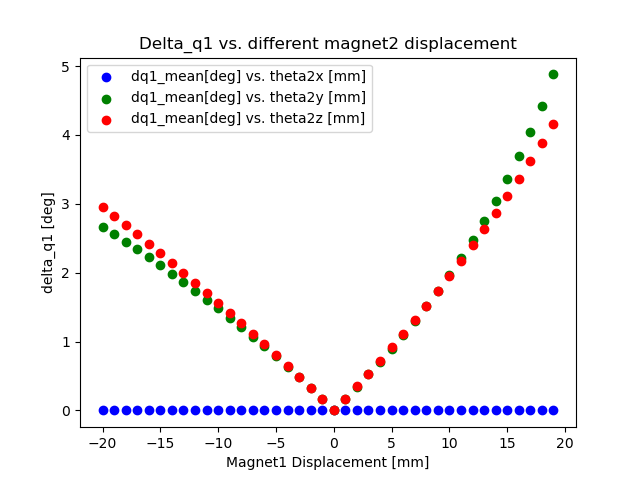
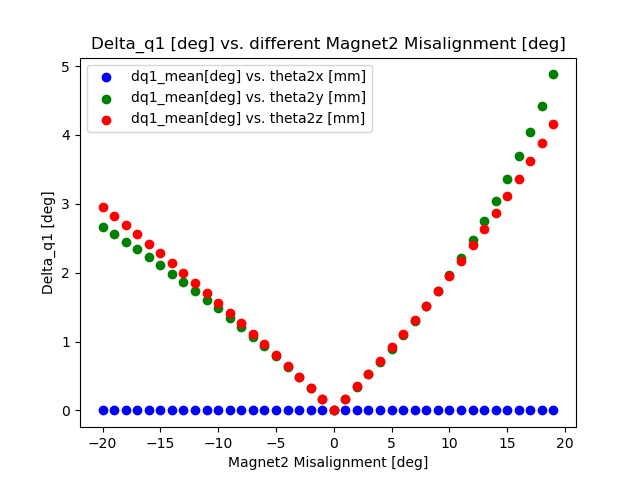
presentation images fixed

Changed region(s): [[0.125, 0.0625, 0.875, 0.125], [0.3438, 0.9375, 0.6875, 1.0], [0.0625, 0.375, 0.0938, 0.625]]

diff --git a/Magbot Simulation/data_processing/overlay.py b/Magbot Simulation/data_processing/overlay.py
@@ -5,13 +5,18 @@ import os
 
 mag1_folders = ['results_t1x', 'results_t1y', 'results_t1z']
 mag2_folders = ['results_t2x', 'results_t2y', 'results_t2z']
-png_names = ['t1_dq1_mean', 't1_dq2_mean', 't2_dq1_mean', 't2_dq2_mean']
+png_names = ['t1_dq1_max', 't1_dq2_max', 't2_dq1_max', 't2_dq2_max']
+x_labels = ['Magnet1 Misalignment [deg]', 'Magnet2 Misalignment [deg]']
+y_labels = ['Delta_q1 [deg]', 'Delta_q2 [deg]']
 colors = ['blue', 'green', 'red']
 
 root_path = '/mnt/newstorage/summer_project'
 
-cy1 = 7 #column for dq1_max
-cy2 = 9 #column for dq2_max
+cy1 = 6 #column for dq1_max
+cy2 = 8 #column for dq2_max
+
+#cy1, cy2 = cy1+1, cy2+1
+#png_names = ['t1_dq1_mean', 't1_dq2_mean', 't2_dq1_mean', 't2_dq2_mean']
 
 #process the mag_1 dq1
 for i in range(len(mag1_folders)):
@@ -23,9 +28,9 @@ for i in range(len(mag1_folders)):
 
     plt.scatter(x, y, color = colors[i], label = f'{data.columns[cy1]} vs. {data.columns[i]} [mm]')
 
-plt.xlabel('Magnet1 Displacement [mm]')
-plt.ylabel('delta_q1 [deg]')
-plt.title('Delta_q1 vs. different magnet1 displacement')
+plt.xlabel(x_labels[0])
+plt.ylabel(y_labels[0])
+plt.title(f'{y_labels[0]} vs. different {x_labels[0]}')
 plt.legend()
 png_name = png_names[0]
 png_path = os.path.join(root_path, 'images_present')
@@ -43,9 +48,9 @@ for i in range(len(mag2_folders)):
 
     plt.scatter(x, y, color = colors[i], label = f'{data.columns[cy1]} vs. {data.columns[i]} [mm]')
 
-plt.xlabel('Magnet1 Displacement [mm]')
-plt.ylabel('delta_q2 [deg]')
-plt.title('Delta_q2 vs. different magnet1 displacement')
+plt.xlabel(x_labels[0])
+plt.ylabel(y_labels[1])
+plt.title(f'{y_labels[1]} vs. different {x_labels[0]}')
 plt.legend()
 png_name = png_names[1]
 png_path = os.path.join(root_path, 'images_present')
@@ -63,9 +68,9 @@ for i in range(len(mag1_folders), len(mag2_folders)+len(mag1_folders)):
 
     plt.scatter(x, y, color = colors[i-len(mag1_folders)], label = f'{data.columns[cy1]} vs. {data.columns[i]} [mm]')
 
-plt.xlabel('Magnet1 Displacement [mm]')
-plt.ylabel('delta_q1 [deg]')
-plt.title('Delta_q1 vs. different magnet2 displacement')
+plt.xlabel(x_labels[1])
+plt.ylabel(y_labels[0])
+plt.title(f'{y_labels[0]} vs. different {x_labels[1]}')
 plt.legend()
 png_name = png_names[2]
 png_path = os.path.join(root_path, 'images_present')
@@ -73,7 +78,7 @@ save_path = os.path.join(png_path, png_name)
 plt.savefig(save_path)
 plt.close()
 
-#mag_2 dq1
+#mag_2 dq2
 for i in range(len(mag1_folders), len(mag2_folders)+len(mag1_folders)):
     csv_file = os.path.join(root_path, mag2_folders[i-len(mag1_folders)], 'result.csv')
     data = pd.read_csv(csv_file)
@@ -83,9 +88,9 @@ for i in range(len(mag1_folders), len(mag2_folders)+len(mag1_folders)):
 
     plt.scatter(x, y, color = colors[i-len(mag1_folders)], label = f'{data.columns[cy1]} vs. {data.columns[i]} [mm]')
 
-plt.xlabel('Magnet1 Displacement [mm]')
-plt.ylabel('delta_q2 [deg]')
-plt.title('Delta_q2 vs. different magnet2 displacement')
+plt.xlabel(x_labels[1])
+plt.ylabel(y_labels[1])
+plt.title(f'{y_labels[1]} vs. different {x_labels[1]}')
 plt.legend()
 png_name = png_names[3]
 png_path = os.path.join(root_path, 'images_present')
